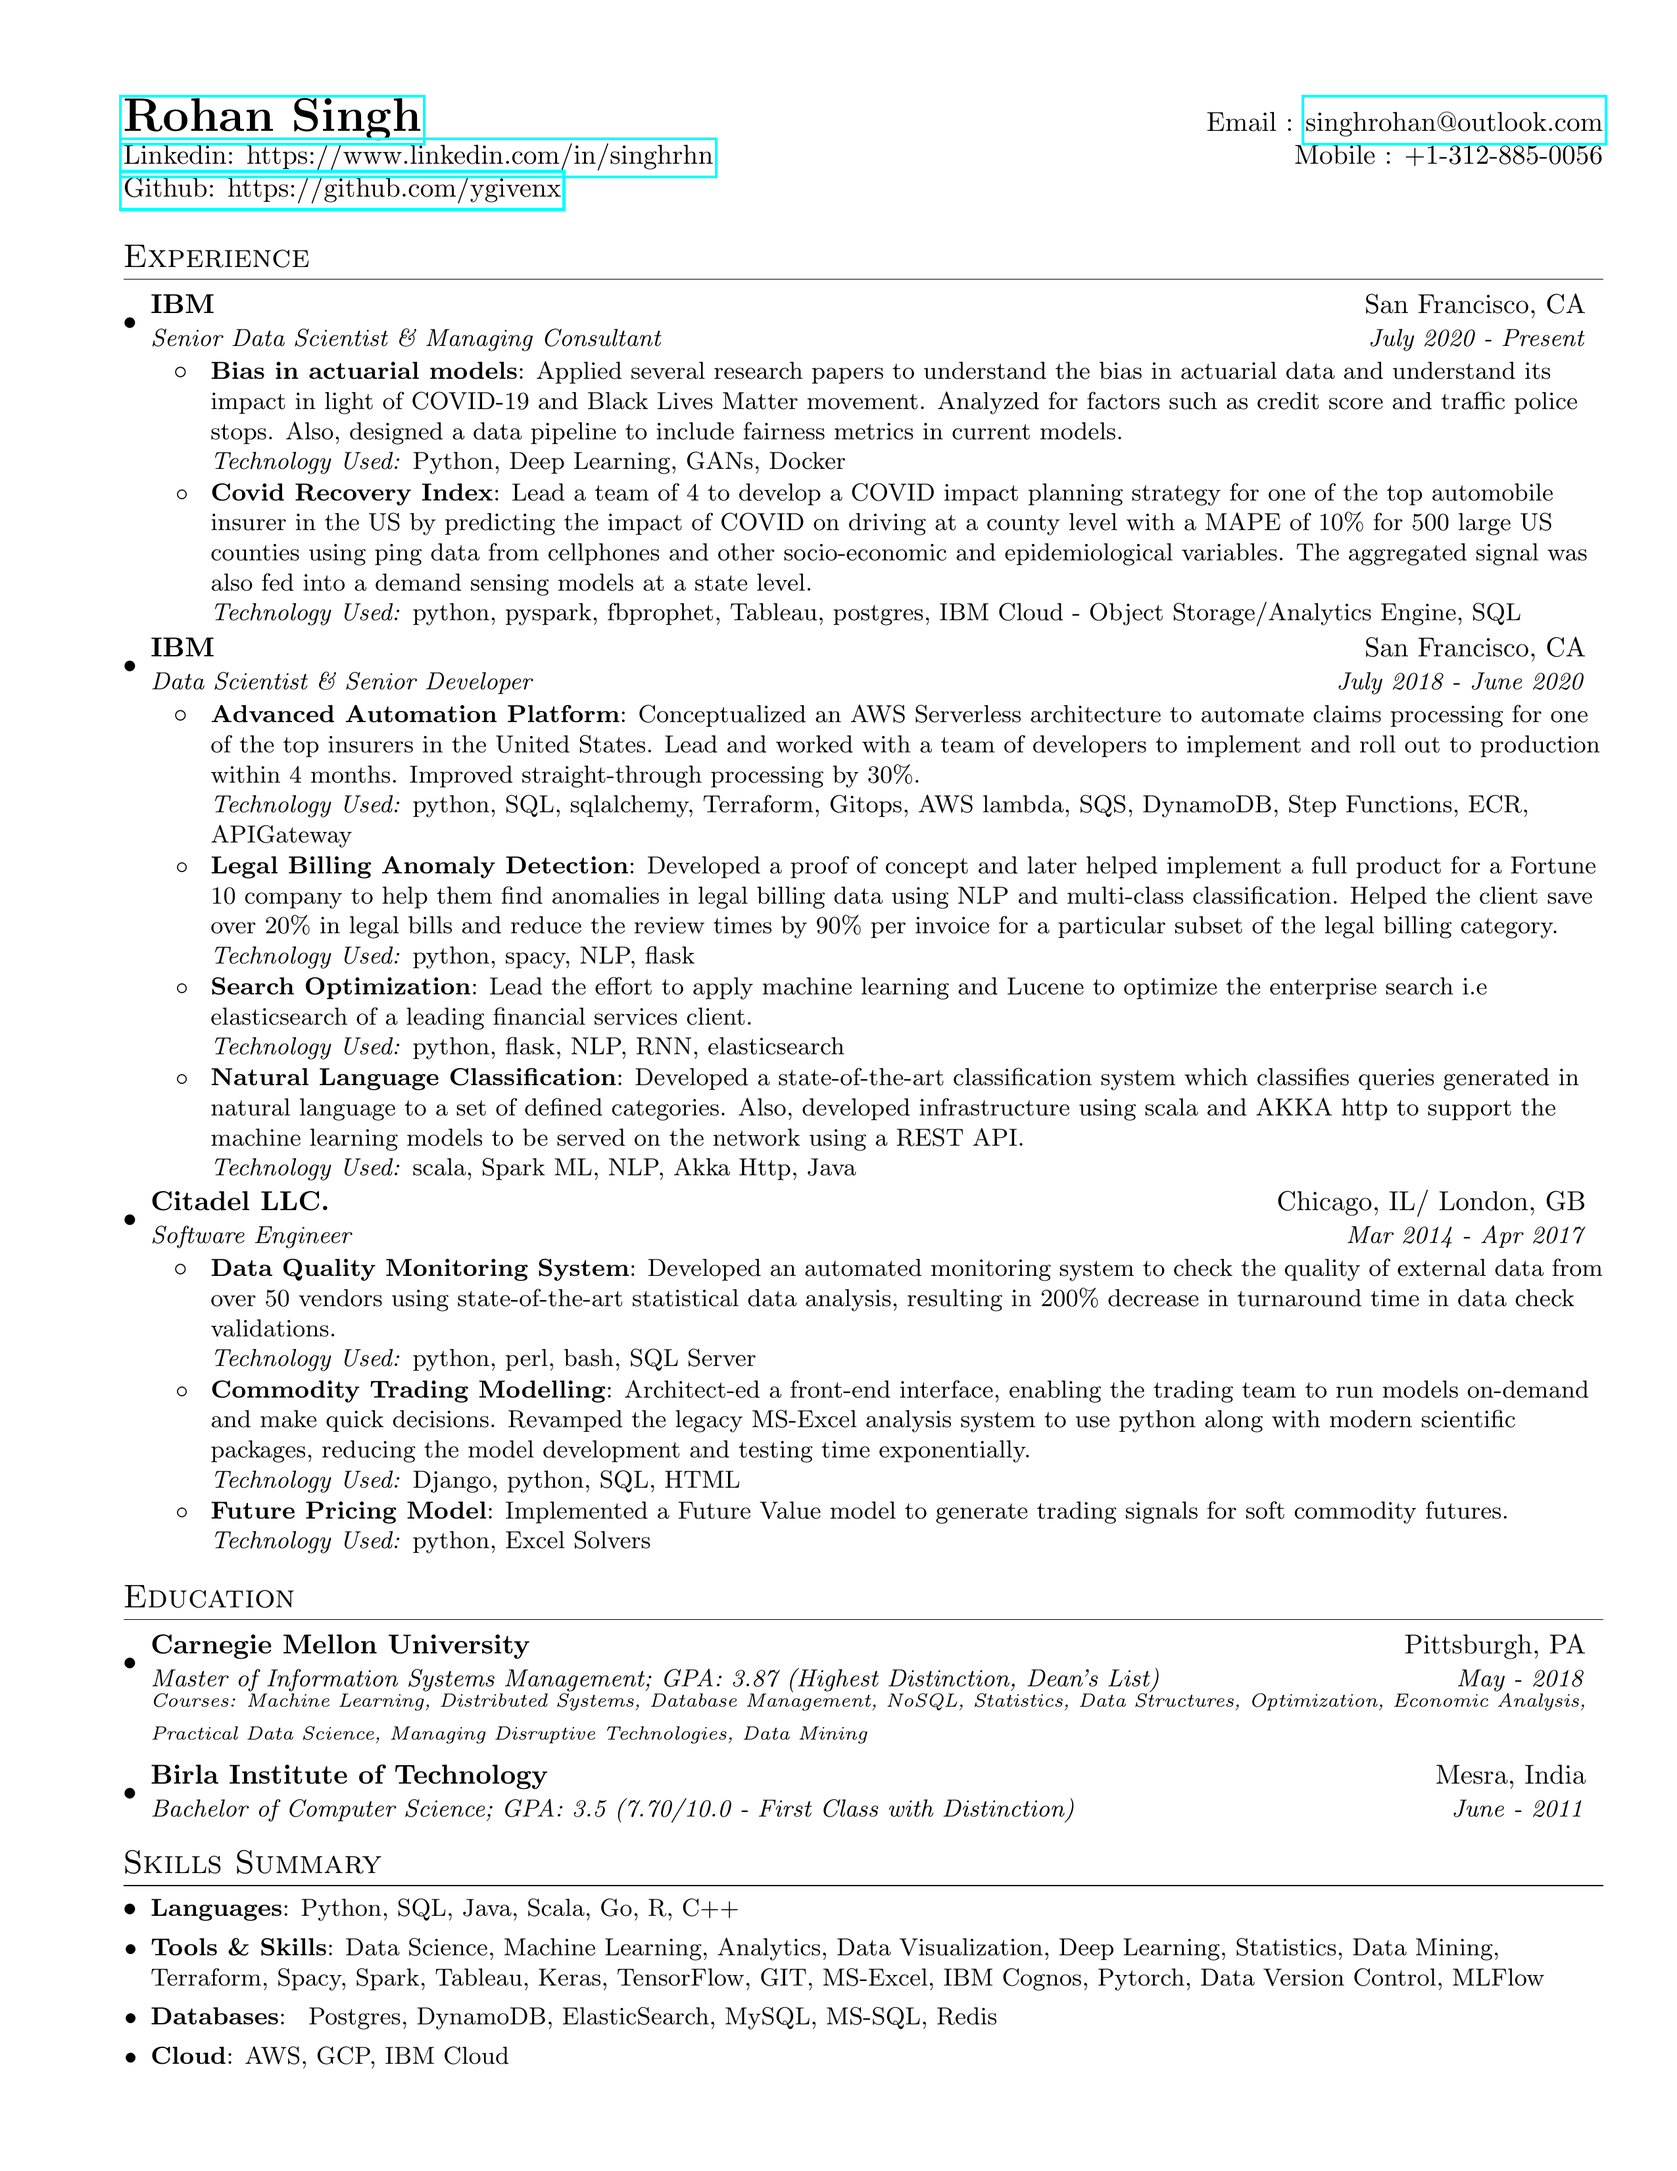
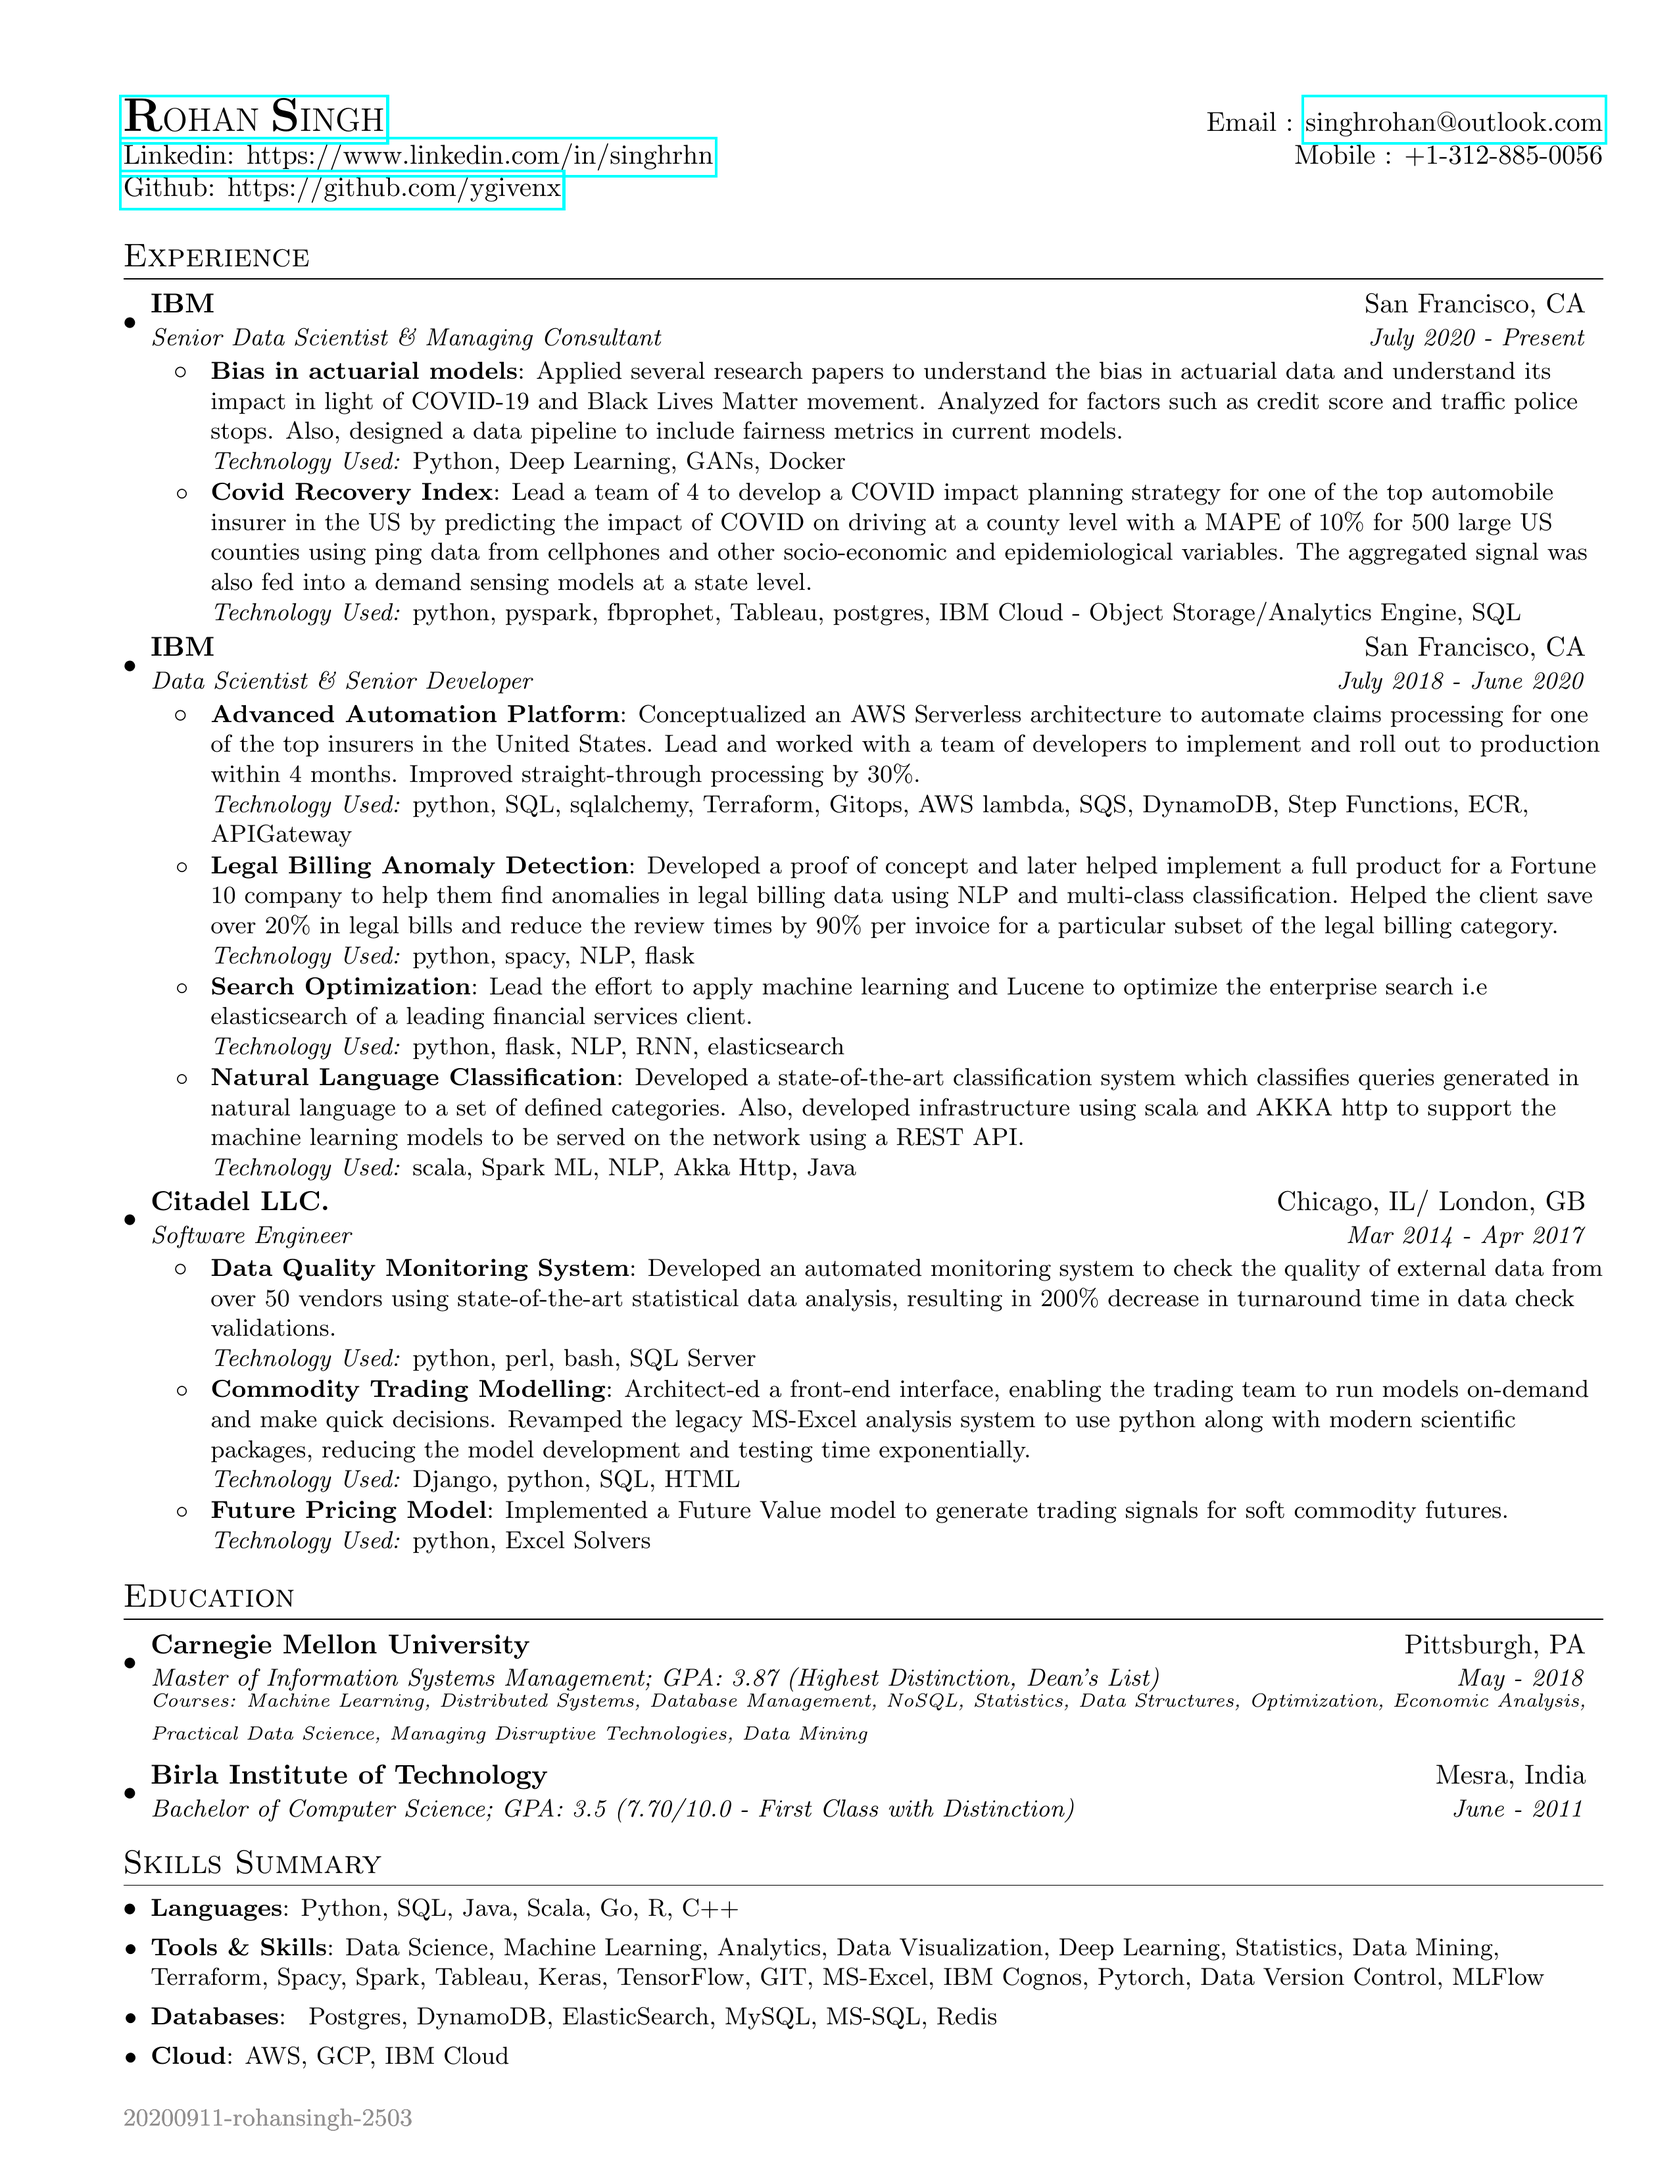
reformat name

diff --git a/resume_rs.tex b/resume_rs.tex
@@ -4,7 +4,7 @@
 % License : MIT
 %------------------------
 
-\documentclass[letterpaper,10.8pt]{article}
+\documentclass[letterpaper,10pt]{article}
 
 \usepackage{latexsym}
 \usepackage[empty]{fullpage}
@@ -19,7 +19,9 @@
 
 \pagestyle{fancy}
 \fancyhf{} % clear all header and footer fields
-\fancyfoot{}
+\fancyfoot{\begin{flushleft}
+  \color{Gray}{\small{20200911-rohansingh-2503}}
+  \end{flushleft}}
 \renewcommand{\headrulewidth}{0pt}
 \renewcommand{\footrulewidth}{0pt}
 
@@ -81,7 +83,8 @@
 
 %----------HEADING-----------------
 \begin{tabular*}{\textwidth}{l@{\extracolsep{\fill}}r}
-  \textbf{\href{https://github.com/ramanujam/resume/blob/master/rohan_singh_tech.pdf}{\LARGE Rohan Singh}} & Email : \href{mailto:singhrohan@outlook.com}{singhrohan@outlook.com}\\
+  % \textbf{\href{https://bit.ly/ygivenx}{\LARGE Rohan Singh}} & Email : \href{mailto:singhrohan@outlook.com}{singhrohan@outlook.com}\\
+  \href{https://bit.ly/ygivenx}{\LARGE{\textbf{R}}\large{OHAN} \LARGE{\textbf{S}}\large{INGH}} & Email : \href{mailto:singhrohan@outlook.com}{singhrohan@outlook.com}\\
   \href{https://www.linkedin.com/in/singhrhn}{Linkedin: https://www.linkedin.com/in/singhrhn} & Mobile : +1-312-885-0056 \\
   \href{https://github.com/ygivenx}{Github: https://github.com/ygivenx}
 \end{tabular*}
@@ -201,4 +204,5 @@
 % 	\resumeItem{Interests}{Travelling: 17 countries and counting. Photography: Taking landscape photos, Astrophotography}
 % 	\resumeItemListEnd
 %-------------------------------------------
+
 \end{document}
